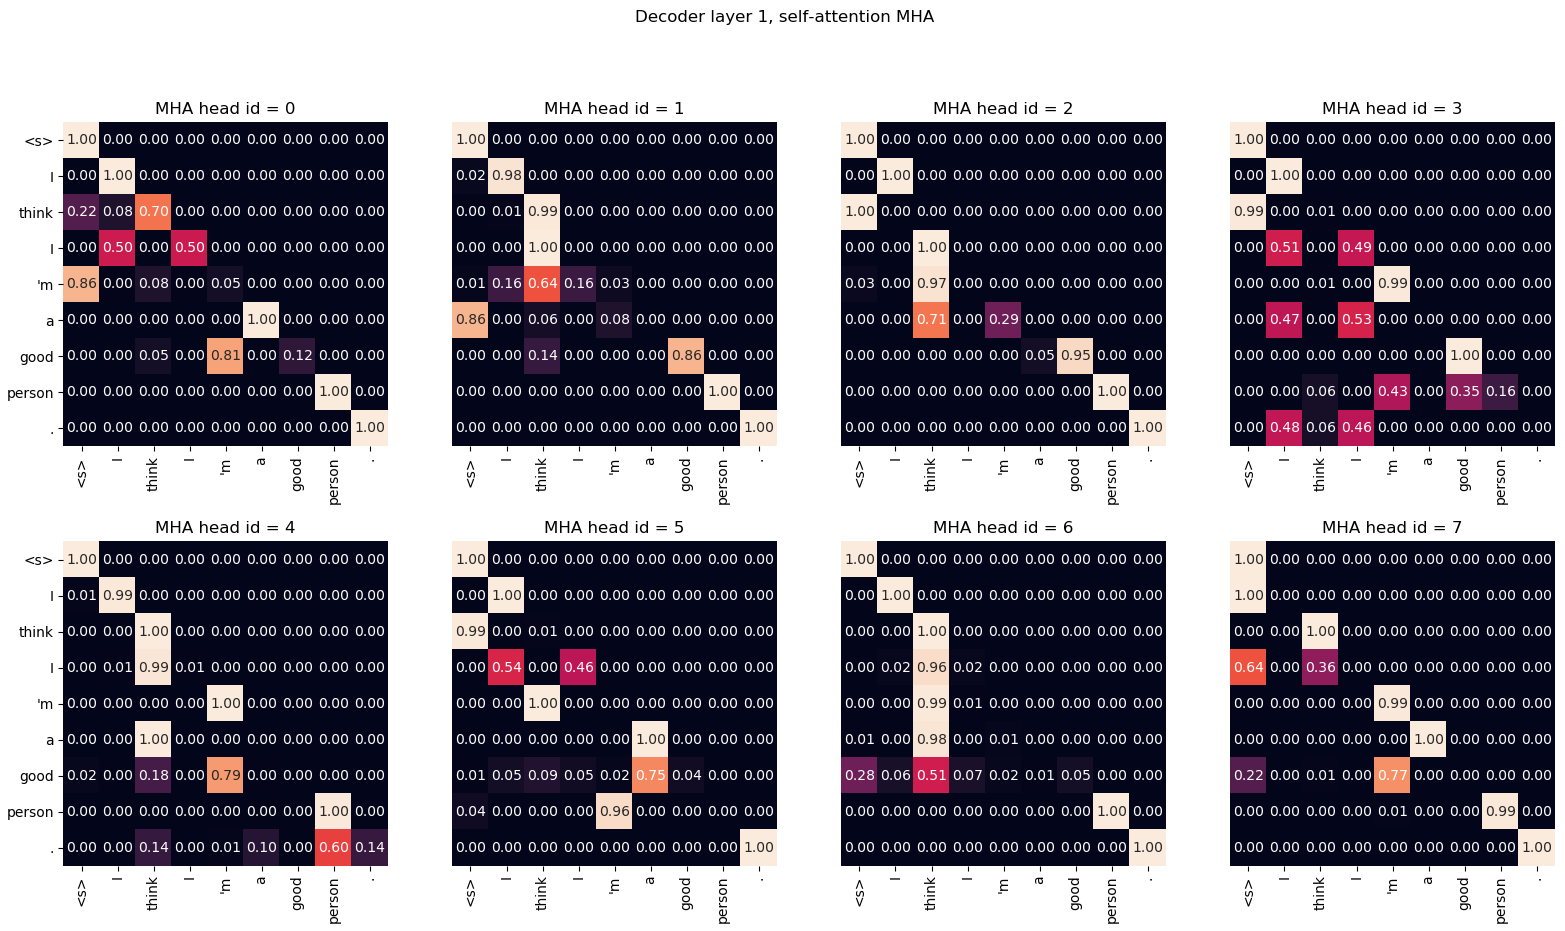
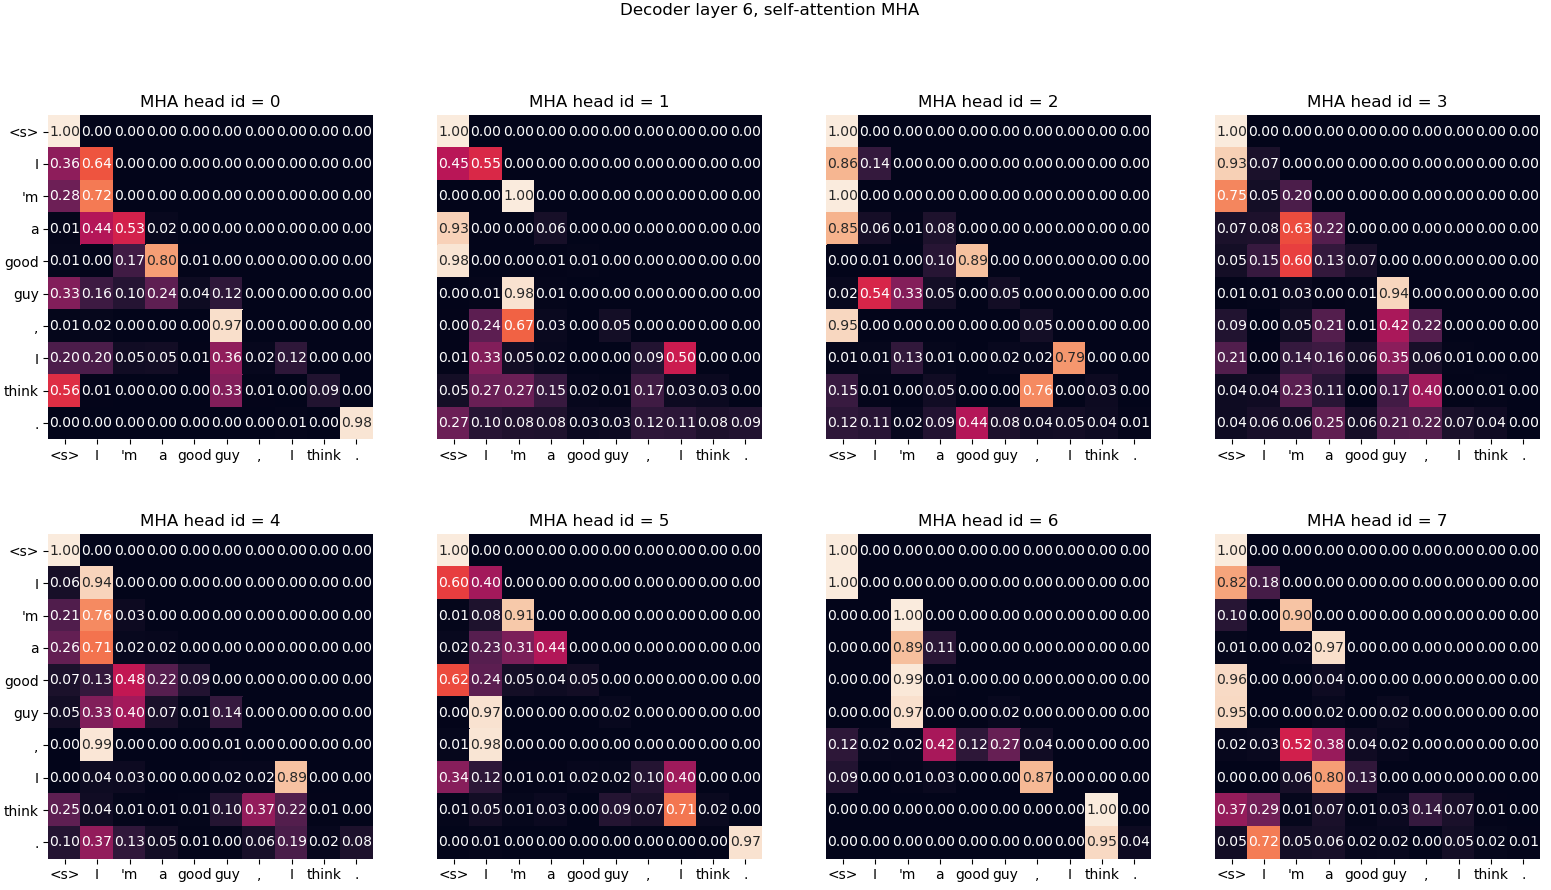
Update attention plots with the best model's results

diff --git a/README.md b/README.md
@@ -148,7 +148,7 @@ and use the most up-to-date versions of Miniconda and CUDA/cuDNN for your system
 
 To run the training start the `training_script.py`, there is a couple of settings you will want to specify:
 * `--batch_size` - this is important to set to a maximum value that won't give you CUDA out of memory
-* `--dataset_name` - Pick between `IWSLT` and `WMT14` (WMT14 is not advisable until I add multi-GPU support)
+* `--dataset_name` - Pick between `IWSLT` and `WMT14` (WMT14 is not advisable [until I add](#todos) multi-GPU support)
 * `--language_direction` - Pick between `E2G` and `G2E`
 
 So an example run (from the console) would look like this: <br/>
@@ -177,9 +177,11 @@ To get some translations start the `translation_script.py`, there is a couple of
 
 (*) Note: after you train your model it'll get dumped into `models/binaries` see what it's name is and specify it via
 the `--model_name` parameter if you want to play with it for translation purpose. If you specify some of the pretrained
-models they'll automatically get downloaded the first time you run the translation script.
+models they'll **automatically get downloaded** the first time you run the translation script.
 
-That's it you can also visualize the attention check out [this section.](Visualizing attention) for more info.
+I'll link IWSLT pretrained model links here as well: [English to German](https://www.dropbox.com/s/a6pfo6t9m2dh1jq/iwslt_e2g.pth?dl=1) and [German to English.](https://www.dropbox.com/s/dgcd4xhwig7ygqd/iwslt_g2e.pth?dl=1)
+
+That's it you can also visualize the attention check out [this section.](#visualizing-attention) for more info.
 
 ### Evaluating NMT models
 
@@ -195,8 +197,8 @@ Current results, models were trained for 20 epochs (DE stands for Deutch i.e. Ge
 
 | Model | BLEU score | Dataset |
 | --- | --- | --- |
-| Baseline transformer (EN-DE) | **27.8** | IWSLT val |
-| Baseline transformer (DE-EN) | **33.2** | IWSLT val |
+| [Baseline transformer (EN-DE)](https://www.dropbox.com/s/a6pfo6t9m2dh1jq/iwslt_e2g.pth?dl=1) | **27.8** | IWSLT val |
+| [Baseline transformer (DE-EN)](https://www.dropbox.com/s/dgcd4xhwig7ygqd/iwslt_g2e.pth?dl=1) | **33.2** | IWSLT val |
 | Baseline transformer (EN-DE) | x | WMT-14 val |
 | Baseline transformer (DE-EN) | x | WMT-14 val |
 
@@ -231,21 +233,23 @@ model was "paying attention to" in the source and target sentences.
 
 Here are the attentions I get for the input sentence `Ich bin ein guter Mensch, denke ich.`
 
+These belong to layer 6 of the encoder. You can see all of the 8 multi-head attention heads.
+
 <p align="center">
 <img src="data/readme_pics/attention_enc_self.PNG" width="850"/>
 </p>
 
-These belong to layer 4 of the encoder. You can see all of the 8 multi-head attention heads.
+And this one belongs to decoder layer 6 of the self-attention decoder MHA (multi-head attention) module. <br/>
+You can notice an interesting **triangular pattern** which comes from the fact that target tokens can't look ahead!
 
 <p align="center">
 <img src="data/readme_pics/attention_dec_self.PNG" width="850"/>
 </p>
 
-And this one belongs to layer 1 of the decoder. You can notice an interesting **triangular pattern** which 
-comes from the fact that target tokens can't look ahead!
+The 3rd type of MHA module is the source attending one and it looks similar to the plot you saw for the encoder. <br/>
+Feel free to play with it at your own pace!
 
-The 3rd type of MHA (multi-head attention) module is the source attending one but it looks similar to the
-plot you saw for the encoder.
+*Note: there are obviously some bias problems with this model but I won't get into that analysis here*
 
 ## Hardware requirements
 
